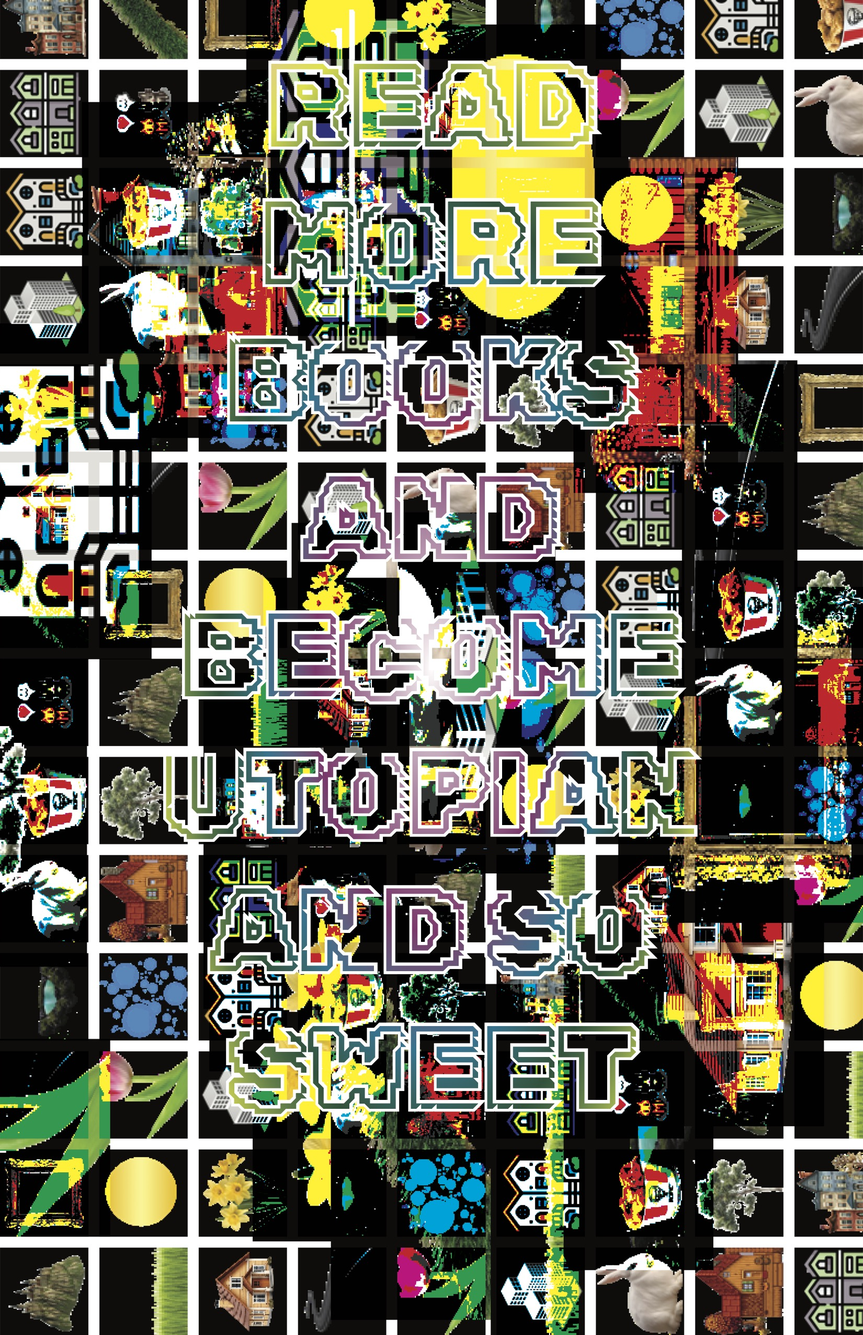
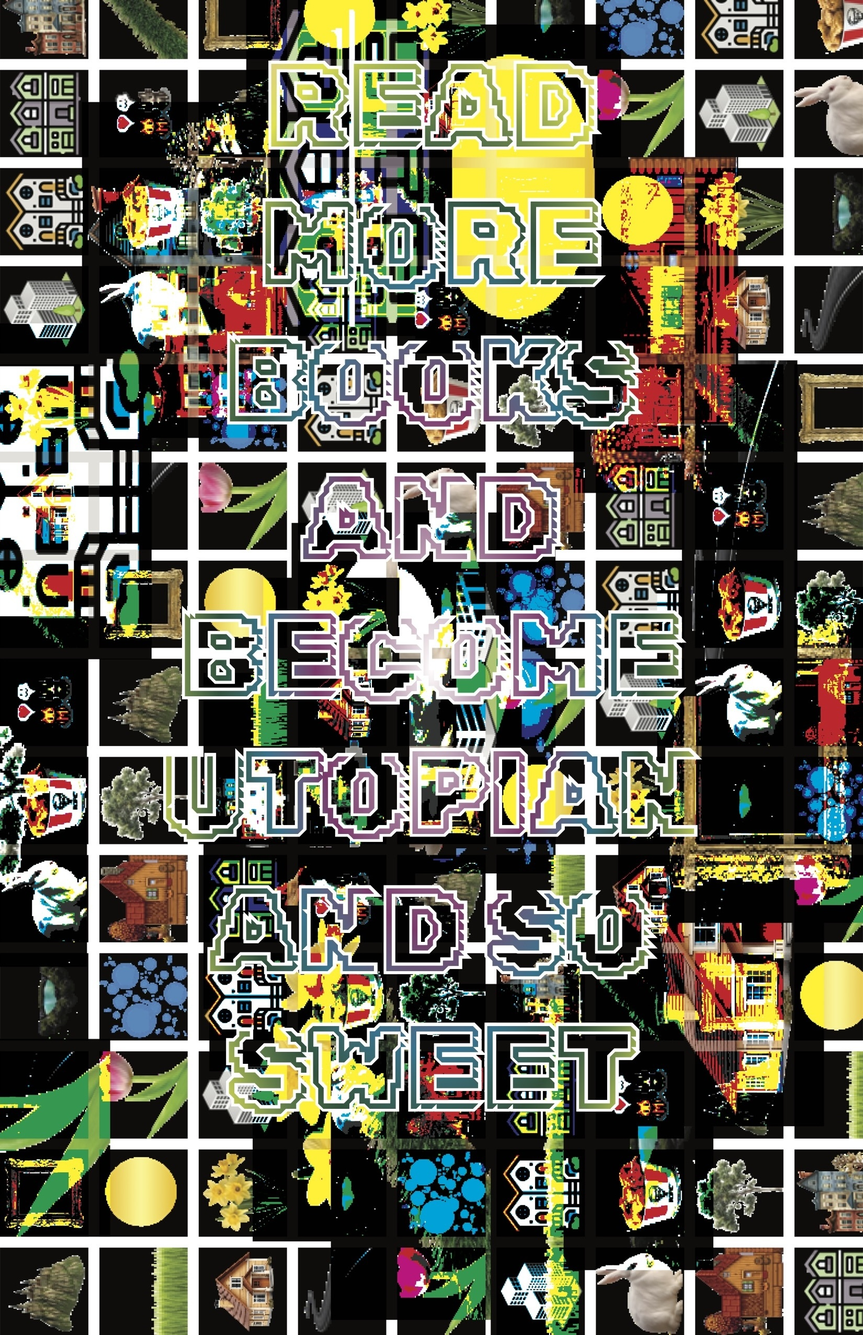
added more websites

diff --git a/src/App.tsx b/src/App.tsx
@@ -62,6 +62,8 @@ export default function App() {
 
   const modalContent: Record<string, ImageItem[]> = {
     Websites: [
+      { src: "images/stackluv.png", title: "Stacklove Central", caption: "collaborative web art piece where users all around the world make a collage together", link: "https://stacklovecentral.onrender.com/" },
+      { src: "images/phonetics.png", title: "Phonetic Translator", caption: "html/css/javascript website that breaks user input down into NATO’s phonetic spelling alphabet", link: "https://meeralouise.github.io/phonetic-translator/" },
       { src: "images/igp.png", title: "Storytelling Workshop", caption: "live writing workshop + library. made using html/css/javascript, express.js, node.js, postgreSQL, render", link: "https://imagegenerationproject.onrender.com/" },
       { src: "images/bookworld.png", title: "My Reading World", caption: "book log that is also a cute collaborative world builder. users input books they’ve read and earn town building blocks.", link: "https://my-reading-world.vercel.app/" },
       { src: "images/prompter.png", title: "Make Me Write", caption: "simple webtool that generates a writing exercise prompt. coded using html/css/javascript", link: "https://meeralouise.github.io/prompter/" },

diff --git a/index.html b/index.html
@@ -2,7 +2,7 @@
 <html lang="en">
   <head>
     <meta charset="UTF-8" />
-    <link rel="icon" type="image/svg+xml" href="/public/images/favicon.ico" />
+    <link rel="icon" type="image/gif" href="/public/images/katietwo.gif" />
     <meta name="viewport" content="width=device-width, initial-scale=1.0" />
     <title>Portfolio</title>
   </head>
